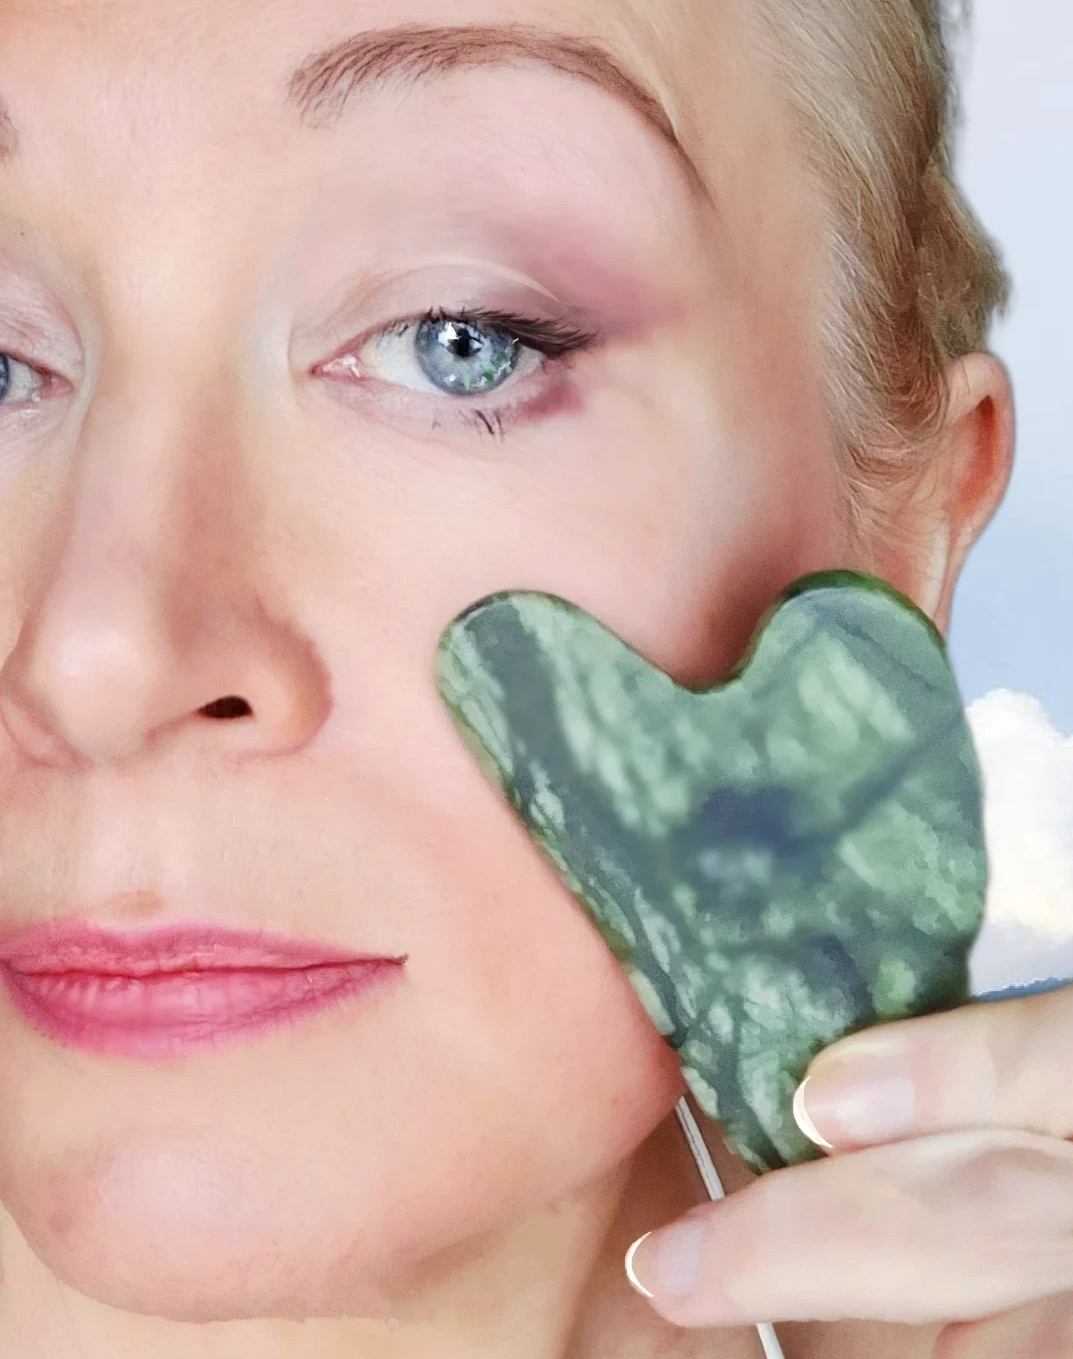
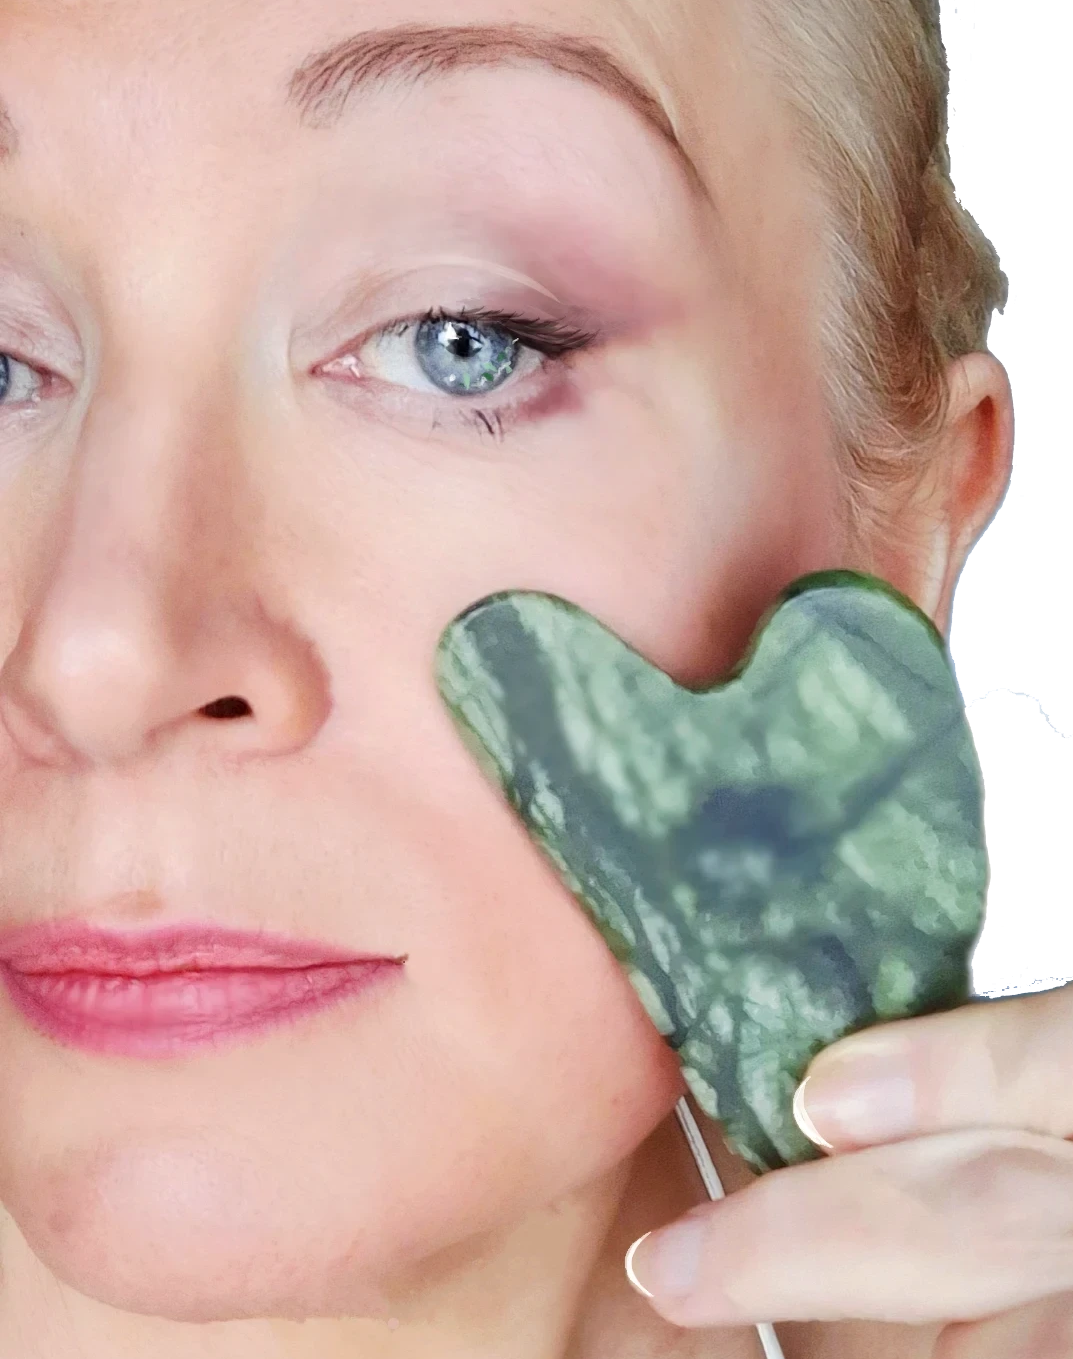
transparent main image

Changed region(s): [[0.8611, 0.0, 1.0, 0.5563], [0.8919, 0.6799, 1.0, 0.7417]]

diff --git a/index.html b/index.html
@@ -34,18 +34,18 @@
 
     <!-- Hero Section -->
     <section class="hero">
-        <div class="clouds-container">
-            <div class="cloud cloud-small cloud-1"></div>
-            <div class="cloud cloud-large cloud-2"></div>
-            <div class="cloud cloud-medium cloud-3"></div>
-            <div class="cloud cloud-small cloud-4"></div>
-            <div class="cloud cloud-large cloud-5"></div>
-            <div class="cloud cloud-medium cloud-6"></div>
-            <div class="cloud cloud-small cloud-7"></div>
-            <div class="cloud cloud-fluffy cloud-8"></div>
-            <div class="cloud cloud-wispy cloud-9"></div>
-        </div>
         <div class="hero-container">
+            <div class="clouds-container">
+                <div class="cloud cloud-small cloud-1"></div>
+                <div class="cloud cloud-large cloud-2"></div>
+                <div class="cloud cloud-medium cloud-3"></div>
+                <div class="cloud cloud-small cloud-4"></div>
+                <div class="cloud cloud-large cloud-5"></div>
+                <div class="cloud cloud-medium cloud-6"></div>
+                <div class="cloud cloud-small cloud-7"></div>
+                <div class="cloud cloud-fluffy cloud-8"></div>
+                <div class="cloud cloud-wispy cloud-9"></div>
+            </div>
             <div class="hero-content">
                 <div class="hero-text">
                     <h1 class="hero-title">Natural face rejuvenation</h1>
@@ -56,8 +56,7 @@
                         Works</button>
                 </div>
                 <div class="hero-image">
-                    <img src="assets/images/general/jane-home.webp"
-                        alt="Beautiful facial rejuvenation - natural glow" />
+                    <img src="assets/images/general/jane-home.png" alt="Beautiful facial rejuvenation - natural glow" />
                 </div>
             </div>
         </div>

diff --git a/beyond-styles.css b/beyond-styles.css
@@ -168,6 +168,8 @@ p {
     grid-template-columns: 1fr 1fr;
     gap: 4rem;
     align-items: center;
+    position: relative;
+    z-index: 5;
 }
 
 .hero-text {
@@ -203,9 +205,11 @@ p {
     display: flex;
     align-items: center;
     justify-content: center;
-    overflow: hidden;
+    overflow: visible;
     border-radius: 20px;
-    background: linear-gradient(135deg, #E8F4F8 0%, #D6E9F0 100%);
+    background: transparent;
+    padding: 2rem;
+    z-index: 10;
 }
 
 .hero-image img {
@@ -214,44 +218,27 @@ p {
     max-height: 600px;
     object-fit: cover;
     object-position: 40% center;
-    opacity: 0.8;
-    filter: brightness(1.1) contrast(0.9) saturate(0.9);
+    opacity: 0.9;
+    filter: brightness(1.05) contrast(0.95) saturate(0.95);
     position: relative;
-    z-index: 2;
+    z-index: 10;
     border-radius: 15px;
     transform: scaleX(-1);
     box-shadow:
-        inset 0 0 50px rgba(232, 244, 248, 0.6),
-        inset 0 0 100px rgba(214, 233, 240, 0.4),
-        0 0 30px rgba(232, 244, 248, 0.3);
+        0 0 20px rgba(232, 244, 248, 0.2);
+    mix-blend-mode: normal;
 }
 
-/* Create a soft blend overlay */
-.hero-image::after {
-    content: '';
-    position: absolute;
-    top: 0;
-    left: 0;
-    right: 0;
-    bottom: 0;
-    background: linear-gradient(45deg,
-            rgba(232, 244, 248, 0.7) 0%,
-            transparent 20%,
-            transparent 80%,
-            rgba(214, 233, 240, 0.6) 100%);
-    border-radius: 15px;
-    z-index: 3;
-    pointer-events: none;
-}
+/* Remove overlay to allow clouds to show through transparent parts of image */
 
 /* Clouds Container */
 .clouds-container {
     position: absolute;
     top: 0;
     left: 0;
-    width: 100vw;
+    width: 100%;
     height: 100%;
-    z-index: 1;
+    z-index: 0;
     overflow: visible;
     pointer-events: none;
 }
